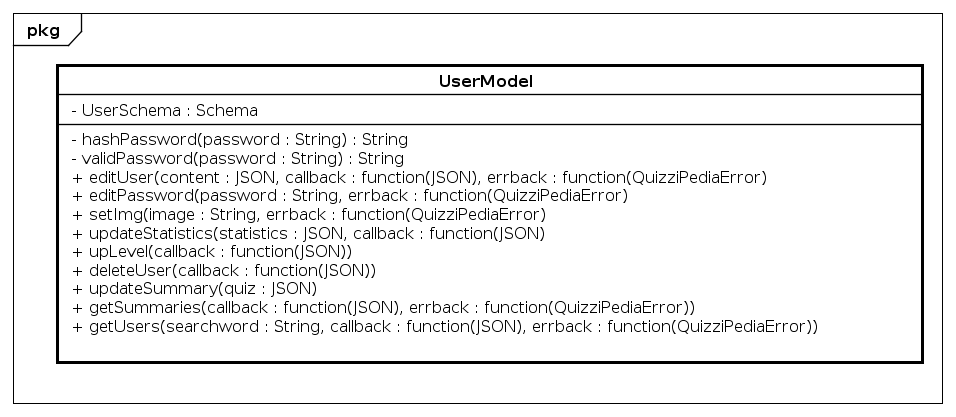
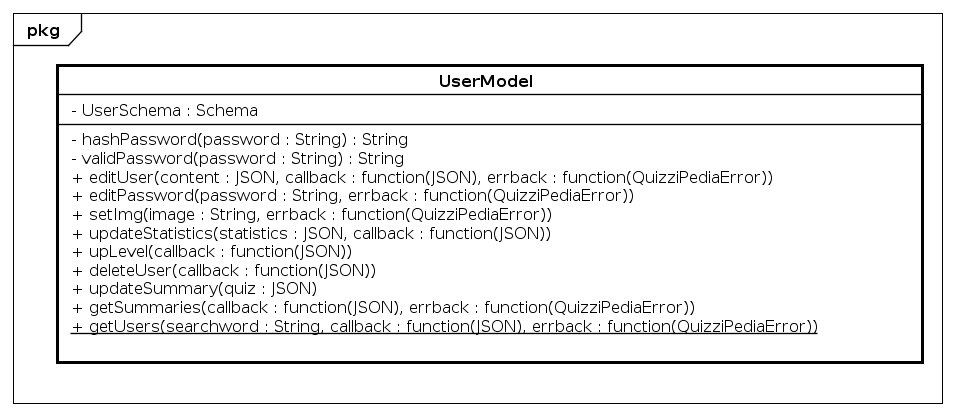
Modifiche UserModel

Changed region(s): [[0.0607, 0.7794, 0.8494, 0.8106]]

diff --git a/RP/DefinizioneDiProdotto/sezioni/Back-End/Models/UserProModel.tex b/RP/DefinizioneDiProdotto/sezioni/Back-End/Models/UserProModel.tex
@@ -34,7 +34,7 @@ Rappresenta il ConcreteHandler nel design pattern Chain of responsibility. Utili
 		\begin{itemize}
 		\item
 		+ \texttt{addUserPro(userId : ObjectId, callback: function(JSON), errback: function(QuizzipediaError))} \\	
-		Questo metodo aggiorna la tipologia di utenza. In specifico l'utente di tipo basic passerà a pro. Ritorna un JSON contenente i dati del nuovo utente pro, qualora si siano verificati problemi verrà ritornato un messaggio d'errore.	\\	
+		Questo metodo è statico ed aggiorna la tipologia di utenza. In specifico l'utente di tipo basic passerà a pro. Ritorna un JSON contenente i dati del nuovo utente pro, qualora si siano verificati problemi verrà ritornato un messaggio d'errore.	\\	
 		\textbf{Parametri} 
 			\begin{itemize}
 			\item
@@ -49,7 +49,7 @@ Rappresenta il ConcreteHandler nel design pattern Chain of responsibility. Utili
 			\end{itemize}	
 		\item	
 		+ \texttt{deleteUserPro(userId : ObjectId, callback: function(JSON), errback: function(QuizzipediaError))} \\	
-		Questo metodo aggiorna la tipologia di utenza. In specifico l'utente di tipo pro ritornerà a basic, eliminando il riferimento alla classe user . Ritorna un JSON contenente i dati dell'utente pro ritornato a basic, qualora si siano verificati problemi verrà ritornato un messaggio d'errore.	\\	
+		Questo metodo è statico ed aggiorna la tipologia di utenza. In specifico l'utente di tipo pro ritornerà a basic, eliminando il riferimento alla classe user . Ritorna un JSON contenente i dati dell'utente pro ritornato a basic, qualora si siano verificati problemi verrà ritornato un messaggio d'errore.	\\	
 		\textbf{Parametri} 
 			\begin{itemize}
 			\item

diff --git a/RP/DefinizioneDiProdotto/sezioni/Back-End/Models/UserModel.tex b/RP/DefinizioneDiProdotto/sezioni/Back-End/Models/UserModel.tex
@@ -180,7 +180,7 @@ Rappresenta il ConcreteHandler nel design pattern \textit{Chain of responsibilit
 			\end{itemize}	
 		\item			
 		+ \texttt{getUsers(searchword : String, callback : function(JSON), errback : function(QuizziPediaError))}		
-		Questo metodo ritorna un \textit{JSON\ped{G}} contenente i dati degli utenti in base alla parola chiave cercata, in caso di errori una \textit{callback\ped{G}} che segnalerà i relativi problemi.\\
+		Questo metodo è statico e ritorna un \textit{JSON\ped{G}} contenente i dati degli utenti in base alla parola chiave cercata, in caso di errori una \textit{callback\ped{G}} che segnalerà i relativi problemi.\\
 		\textbf{Parametri} 
 			\begin{itemize}
 			\item	
